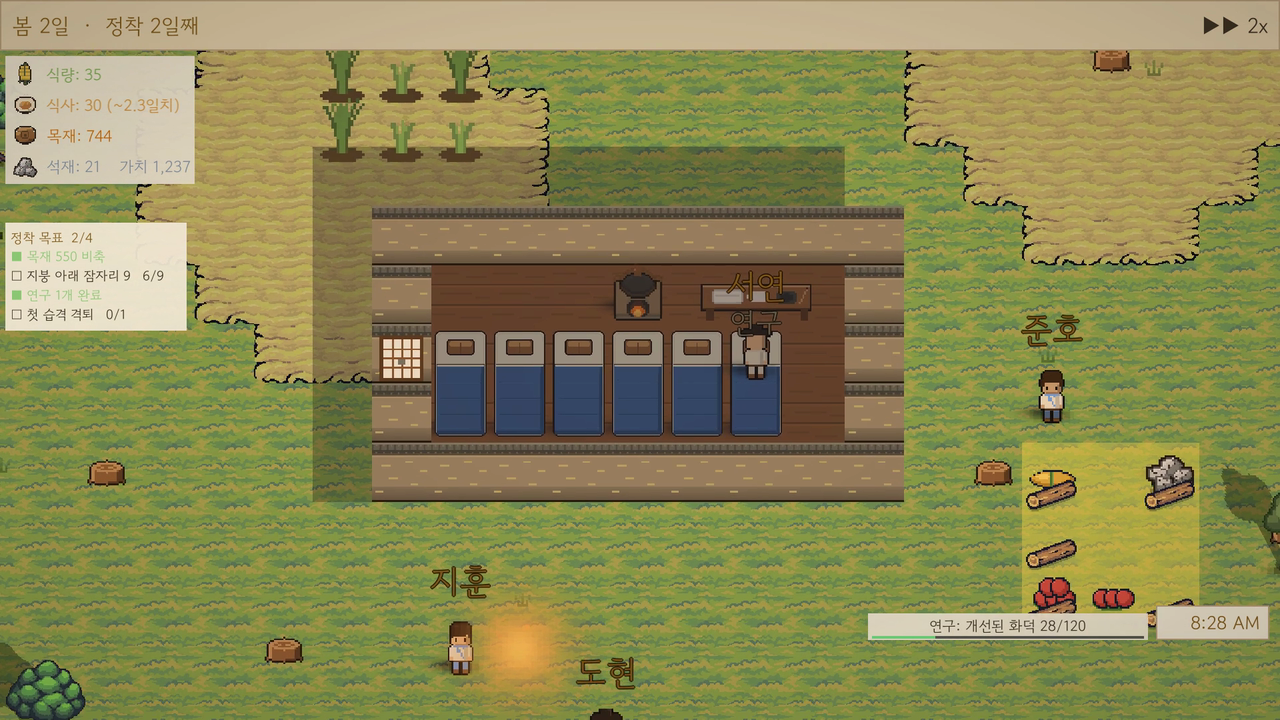
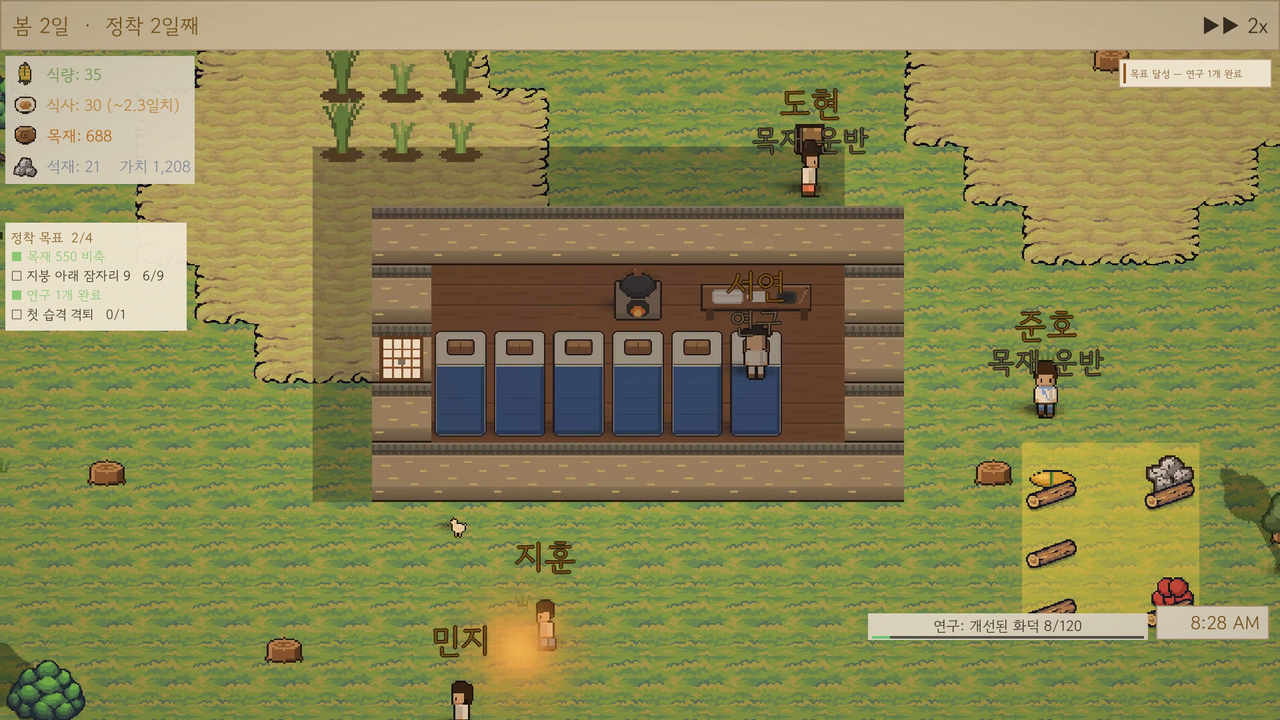
docs: 문서 그림을 최신 빌드로 갱신 (자는 얼굴·저녁 습격 반영)
이전 그림은 이불이 얼굴을 덮던 시절 것이라 문서가 고쳐진 게임을 보여주지
못했다. 밤 그림은 이제 '저녁에 약탈자를 물리치고(목표 4번 초록) 잠자리에
든 마을'이 한 장에 담긴다 — 캡션도 그에 맞게 고쳤다.

diff --git a/skills/game-prototype/docs/submission-game-intro-2026.md b/skills/game-prototype/docs/submission-game-intro-2026.md
@@ -146,7 +146,7 @@
 
 ---
 
-![밤이 오면 화덕과 등불만 남는다. 지붕 아래는 잘라내 보여주고, 빛은 벽에 막힌다.](figures/04-night.png)
+![밤. 저녁에 약탈자를 물리치고(왼쪽 위 목표 4번이 초록으로 바뀌었다) 주민들이 잠자리에 들었다. 지붕은 잘라내 안을 보여주고, 화덕과 등불의 빛은 벽에 막힌다. 말풍선은 자기 전 나누는 잡담이다.](figures/04-night.png)
 
 ## 7. 정직한 한계
 
